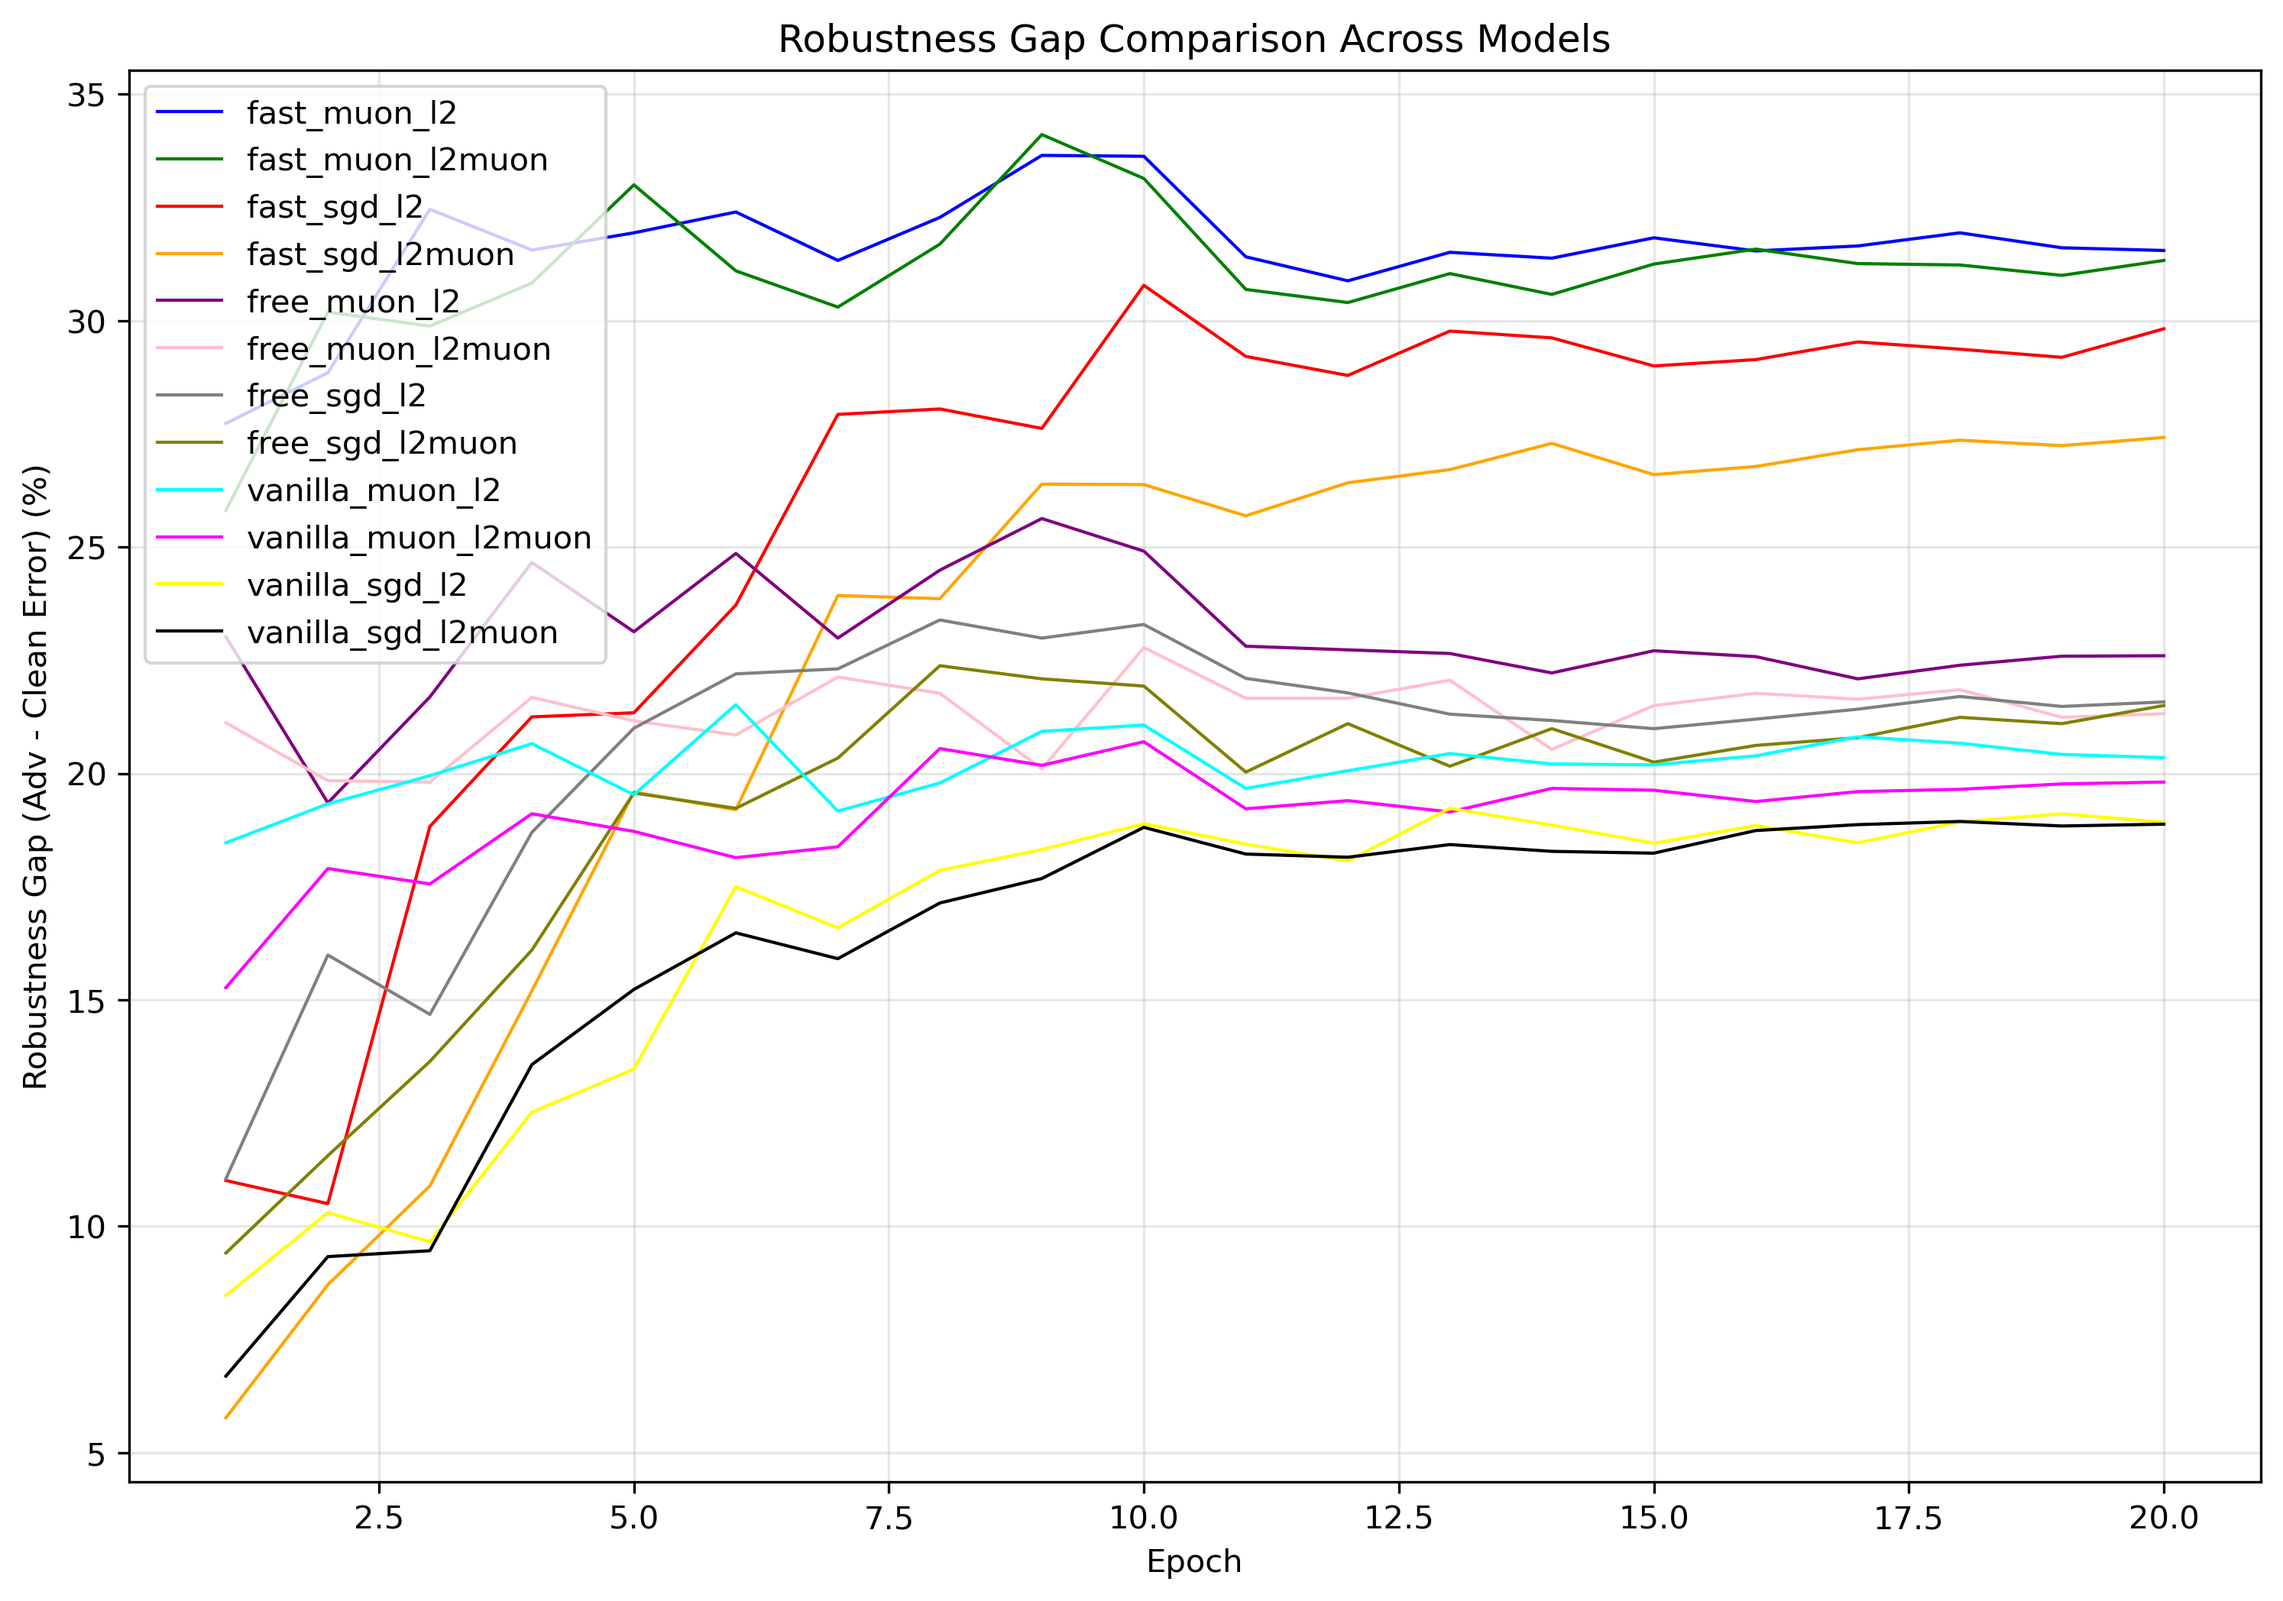
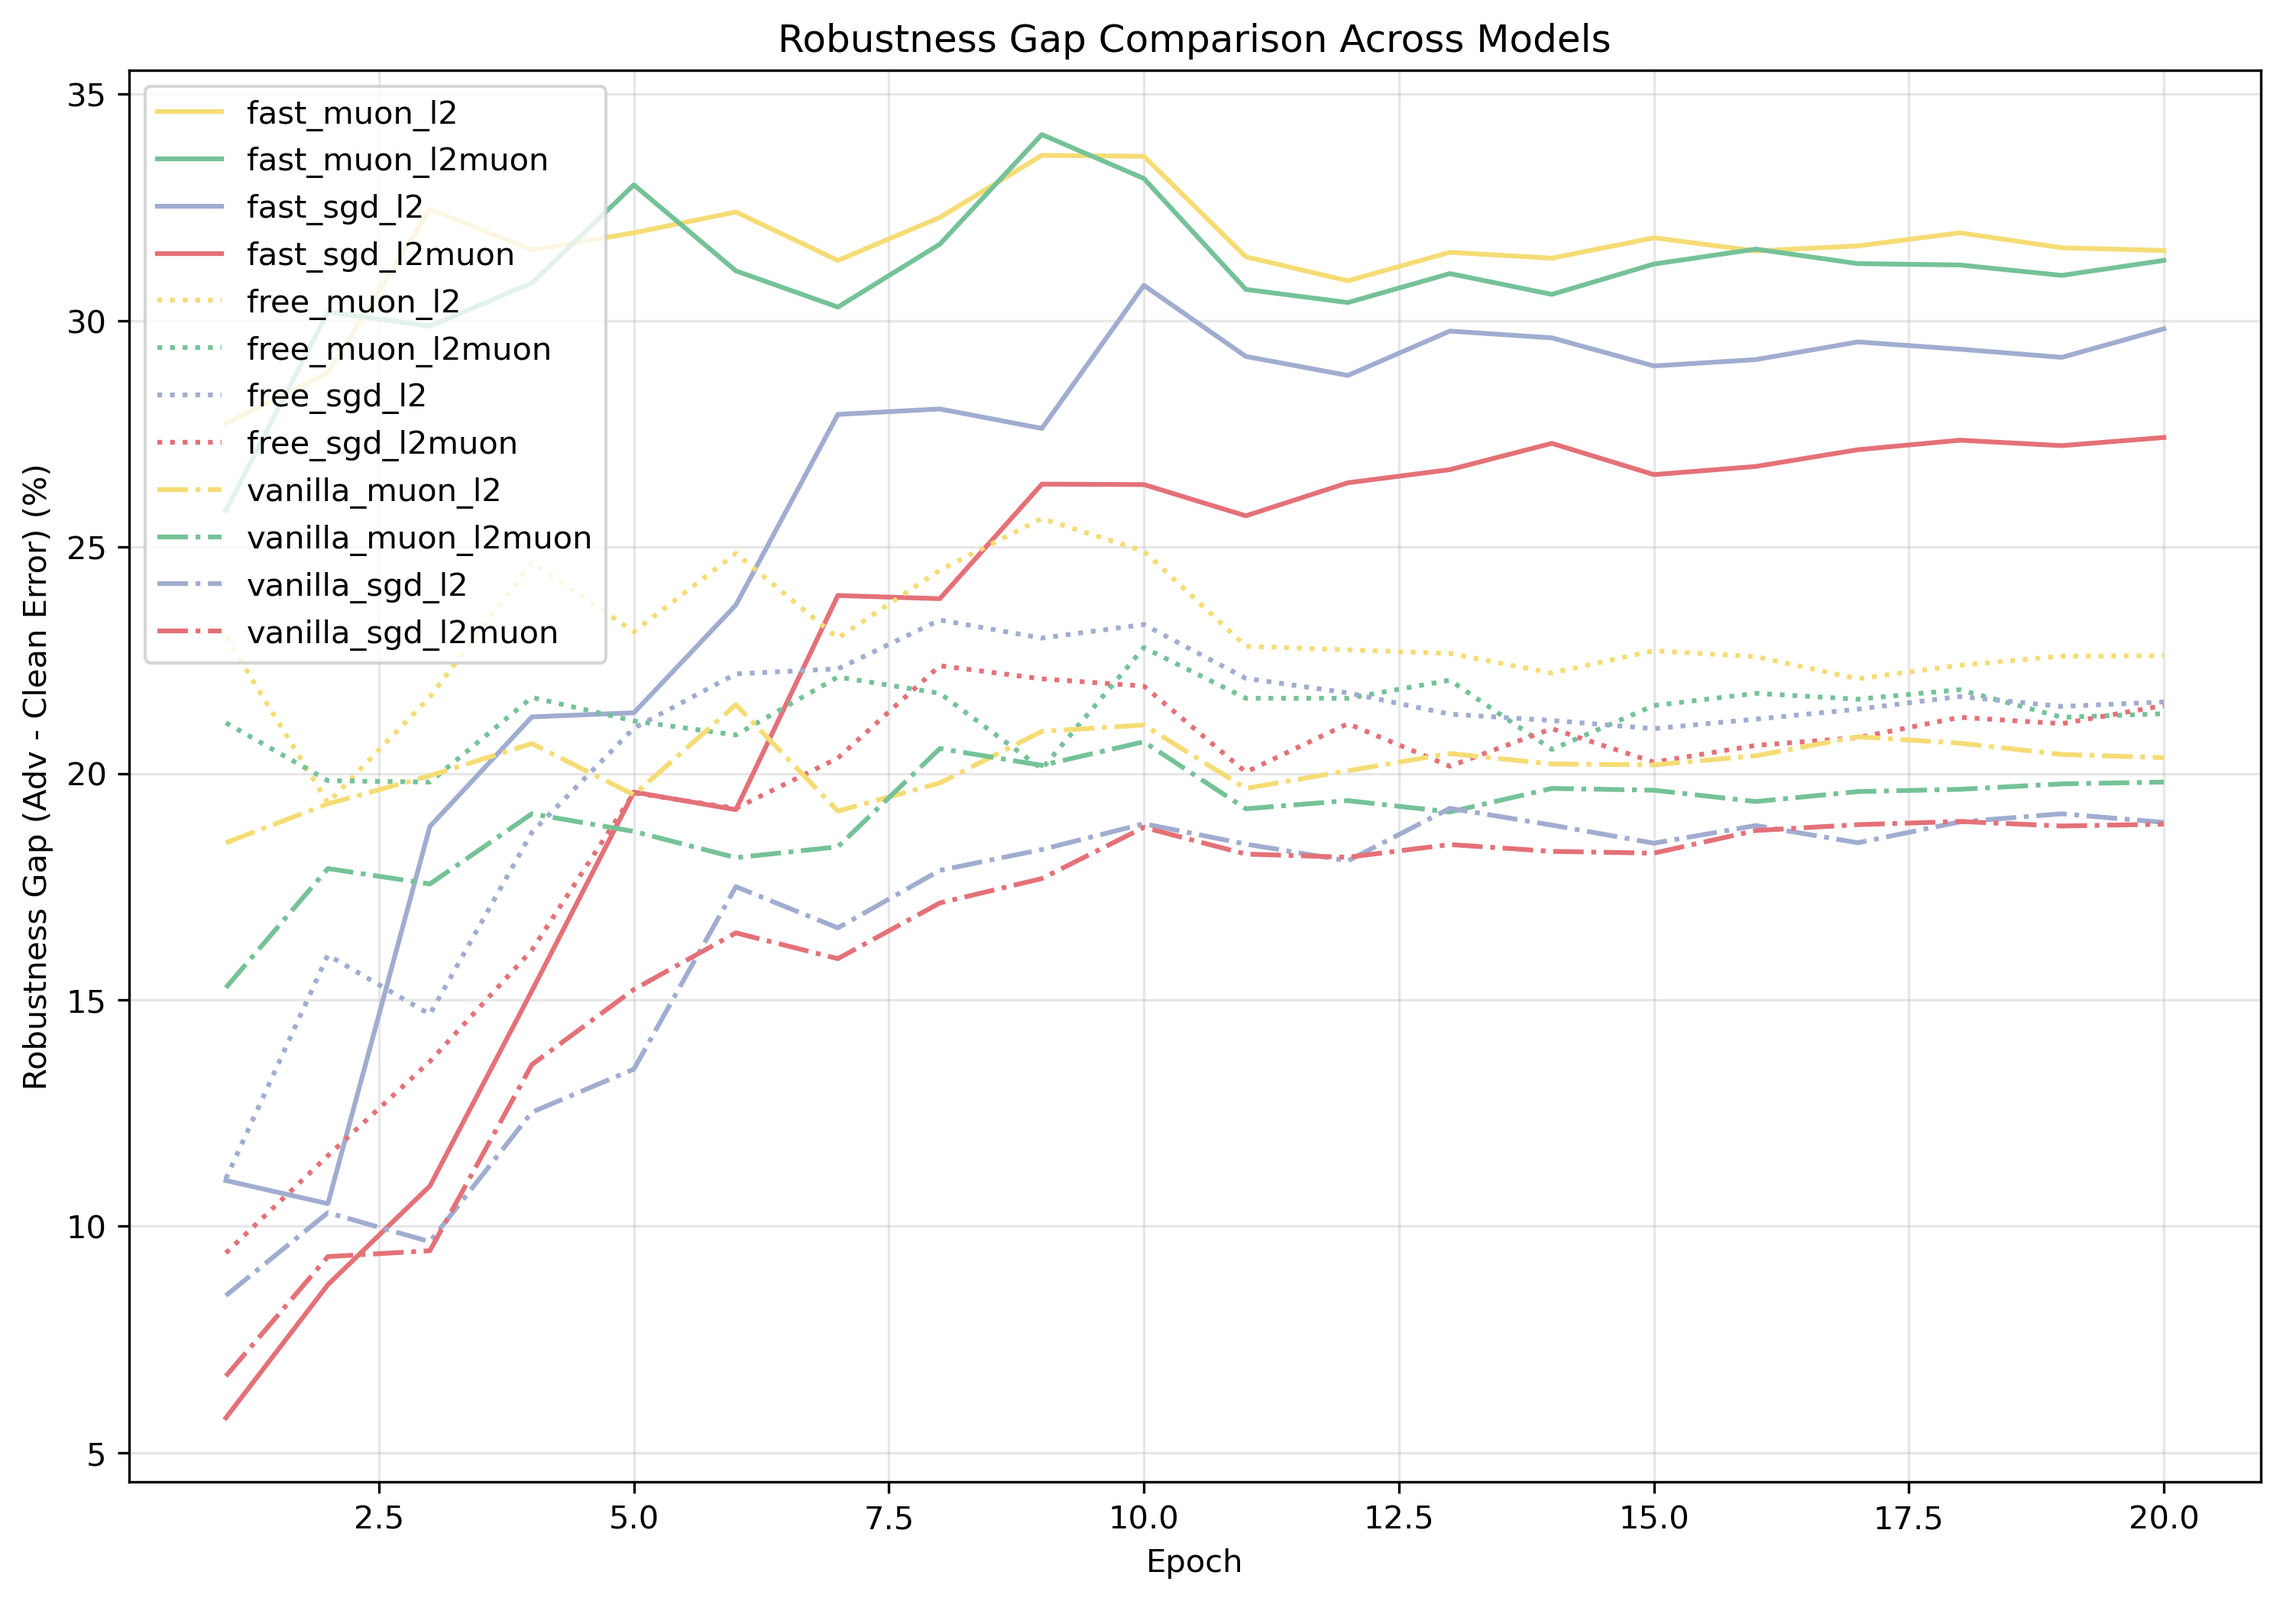
update

diff --git a/src/visualization/extract_results.py b/src/visualization/extract_results.py
@@ -65,6 +65,55 @@ def discover_experiments(experiments_dir="experiments"):
     
     return experiment_paths
 
+def save_results_to_txt(results_df, txt_output_file):
+    """将结果保存到txt文件"""
+    output_dir = os.path.dirname(txt_output_file) if os.path.dirname(txt_output_file) else '.'
+    if output_dir:
+        os.makedirs(output_dir, exist_ok=True)
+    
+    with open(txt_output_file, 'w', encoding='utf-8') as f:
+        # 写入标题
+        f.write("最终结果摘要\n")
+        f.write("=" * 120 + "\n")
+        f.write(f"{'模型名称':<30} {'训练方法':<12} {'优化器':<10} {'攻击类型':<12} {'总时间(小时)':<15} "
+                f"{'干净准确率(%)':<15} {'对抗准确率(%)':<15} {'鲁棒性差距(%)':<15}\n")
+        f.write("-" * 120 + "\n")
+        
+        # 写入详细数据
+        for _, row in results_df.iterrows():
+            time_str = f"{row['total_time_hours']:.2f}" if row['total_time_hours'] > 0 else "N/A"
+            f.write(f"{row['model_name']:<30} {row['training_method']:<12} {row['optimizer']:<10} {row['attack_type']:<12} "
+                    f"{time_str:<15} {row['clean_test_accuracy']:<15.2f} {row['adv_test_accuracy']:<15.2f} "
+                    f"{row['robustness_gap']:<15.2f}\n")
+        
+        # 按训练方法分组统计
+        f.write("\n" + "=" * 100 + "\n")
+        f.write("按训练方法分组统计\n")
+        f.write("=" * 100 + "\n")
+        
+        for method in results_df['training_method'].unique():
+            method_data = results_df[results_df['training_method'] == method]
+            f.write(f"\n{method.upper()} 方法:\n")
+            f.write(f"  平均训练时间: {method_data['total_time_hours'].mean():.2f} 小时\n")
+            f.write(f"  平均干净准确率: {method_data['clean_test_accuracy'].mean():.2f}%\n")
+            f.write(f"  平均对抗准确率: {method_data['adv_test_accuracy'].mean():.2f}%\n")
+            f.write(f"  平均鲁棒性差距: {method_data['robustness_gap'].mean():.2f}%\n")
+        
+        # 按优化器分组统计
+        f.write("\n" + "=" * 100 + "\n")
+        f.write("按优化器分组统计\n")
+        f.write("=" * 100 + "\n")
+        
+        for optimizer in results_df['optimizer'].unique():
+            opt_data = results_df[results_df['optimizer'] == optimizer]
+            f.write(f"\n{optimizer.upper()} 优化器:\n")
+            f.write(f"  平均训练时间: {opt_data['total_time_hours'].mean():.2f} 小时\n")
+            f.write(f"  平均干净准确率: {opt_data['clean_test_accuracy'].mean():.2f}%\n")
+            f.write(f"  平均对抗准确率: {opt_data['adv_test_accuracy'].mean():.2f}%\n")
+            f.write(f"  平均鲁棒性差距: {opt_data['robustness_gap'].mean():.2f}%\n")
+    
+    print(f"✓ Results also saved to TXT file: {txt_output_file}")
+
 def extract_final_results(experiments_dir="experiments", output_file="results/final_results.csv"):
     """
     提取所有模型的最终结果
@@ -154,12 +203,16 @@ def extract_final_results(experiments_dir="experiments", output_file="results/fi
     # 按训练方法、优化器、攻击类型排序
     results_df = results_df.sort_values(['training_method', 'optimizer', 'attack_type'])
     
-    # 保存结果
+    # 保存结果到CSV
     output_dir = os.path.dirname(output_file) if os.path.dirname(output_file) else '.'
     if output_dir:
         os.makedirs(output_dir, exist_ok=True)
     results_df.to_csv(output_file, index=False, float_format='%.4f')
     print(f"\n✓ Results saved to: {output_file}")
+    
+    # 保存结果到TXT
+    txt_output_file = output_file.replace('.csv', '.txt') if output_file.endswith('.csv') else output_file + '.txt'
+    save_results_to_txt(results_df, txt_output_file)
     
     # 打印摘要
     print("\n" + "="*120)
@@ -218,4 +271,3 @@ def main():
 # python src/visualization/extract_results.py --experiments_dir experiments --output_file results/final_results.csv
 if __name__ == "__main__":
     main()
-

diff --git a/src/visualization/compare.py b/src/visualization/compare.py
@@ -96,15 +96,15 @@ def get_style_for_experiment(name):
     - 4种醒目的颜色根据优化器和攻击类型组合分配
     """
     # 4种醒目的对比颜色
-    colors = ['#1f77b4', '#ff7f0e', '#2ca02c', '#d62728']  # 蓝色、橙色、绿色、红色
+    colors = ['#a0add0', '#e47178', '#f5dc75', '#75c298']  # 蓝色、橙色、绿色、红色
     
     # 根据训练方法确定线型
     if name.startswith('fast_'):
-        linestyle = '-'
+        linestyle = 'solid'
     elif name.startswith('free_'):
-        linestyle = '--'
+        linestyle = 'dotted'
     elif name.startswith('vanilla_'):
-        linestyle = ':'
+        linestyle = 'dashdot'
     else:
         linestyle = '-'
     
